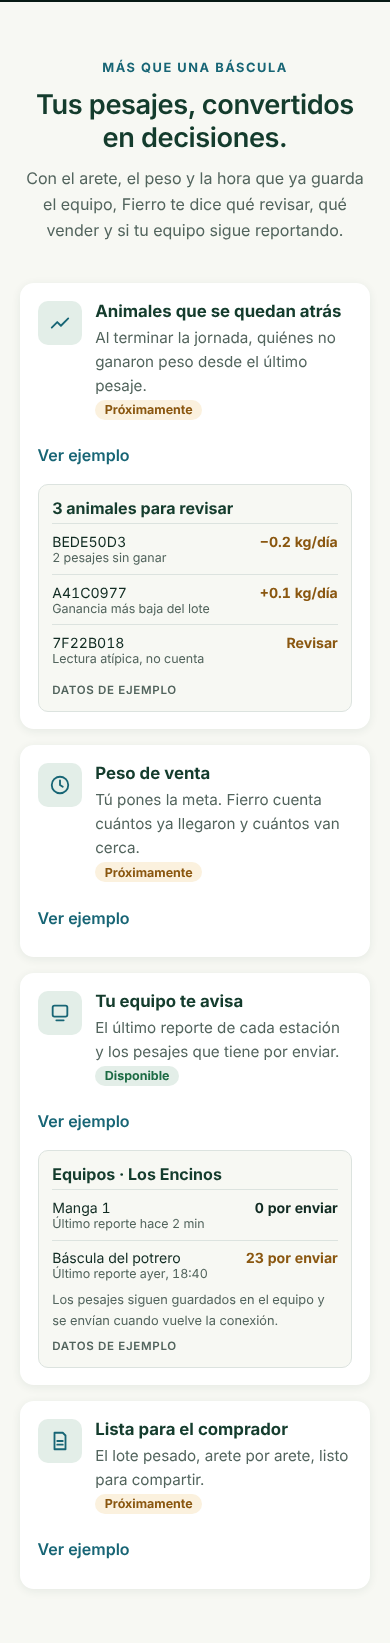
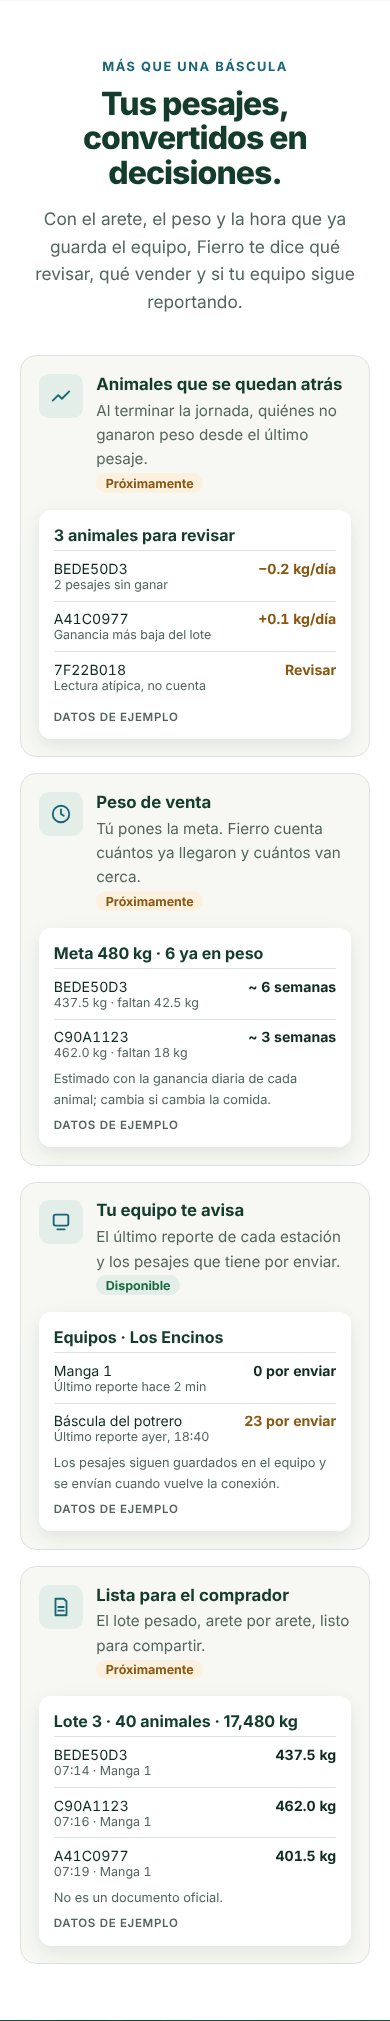
Home: Más que una báscula sube justo después de la portada
Es lo que vende, así que va primero: titular más grande, fondo blanco que la
separa de la portada y las vistas de ejemplo siempre abiertas. Se suma
"Lo que hace" a la navegación. Refs #94.

Claude-Session: https://claude.ai/code/session_014LwE5U7wxpnpvRr8vqi3yZ

Changed region(s): [[0.0923, 0.1862, 0.8923, 0.9623], [0.0923, 0.031, 0.9231, 0.1552]]

diff --git a/apps/web/src/mas-que-bascula.css b/apps/web/src/mas-que-bascula.css
@@ -2,7 +2,7 @@
    porque .secciones todavía trae el tema oscuro antiguo. */
 .home-publica .mas-que-bascula {
   padding: 88px max(24px, calc((100% - 1200px) / 2));
-  background: var(--home-marfil);
+  background: #fff;
   color: var(--home-texto);
   scroll-margin-top: 24px;
 }
@@ -22,7 +22,15 @@
   text-transform: uppercase;
 }
 
-.mqb-cabeza h2 { color: var(--home-bosque); }
+.home-publica .mqb-cabeza h2 {
+  margin-bottom: 0.9rem;
+  color: var(--home-bosque);
+  font-size: clamp(2rem, 4.2vw, 2.9rem);
+  font-weight: 800;
+  line-height: 1.08;
+  letter-spacing: -0.03em;
+}
+.home-publica .mqb-cabeza p:last-child { font-size: 1.08rem; }
 .mqb-cabeza p:last-child { color: var(--home-muted); }
 .home-publica .mas-que-bascula p { color: var(--home-muted); }
 
@@ -41,9 +49,9 @@
   grid-template-columns: 44px minmax(0, 1fr);
   gap: 0.85rem;
   padding: 1.1rem;
-  border-radius: 14px;
-  background: #fff;
-  box-shadow: 0 2px 10px rgba(20, 60, 45, 0.08);
+  border: 1px solid #dce3df;
+  border-radius: 16px;
+  background: var(--home-marfil);
 }
 
 .mqb-icono {
@@ -71,29 +79,14 @@
 
 .mqb-estado.mqb-disponible { background: #e3eee8; color: #1c6b44; }
 
-.mqb-idea > details { grid-column: 1 / -1; }
-
-.mqb-idea summary {
-  display: inline-flex;
-  align-items: center;
-  min-height: 44px;
-  color: var(--home-petroleo);
-  font-weight: 600;
-  cursor: pointer;
-}
-
-.mqb-idea summary:focus-visible {
-  outline: 2px solid var(--home-petroleo);
-  outline-offset: 2px;
-  border-radius: 4px;
-}
+.mqb-idea > .mqb-vista { grid-column: 1 / -1; }
 
 .mqb-vista {
-  margin: 0.4rem 0 0;
-  padding: 0.85rem;
-  border: 1px solid #dce3df;
-  border-radius: 10px;
-  background: var(--home-marfil);
+  margin: 0.2rem 0 0;
+  padding: 0.95rem;
+  border-radius: 12px;
+  background: #fff;
+  box-shadow: 0 6px 18px rgba(20, 60, 45, 0.1);
 }
 
 .mqb-vista-titulo { display: block; margin-bottom: 0.3rem; color: var(--home-bosque); }

diff --git a/apps/web/src/MasQueBascula.jsx b/apps/web/src/MasQueBascula.jsx
@@ -3,8 +3,9 @@ import "./mas-que-bascula.css";
 /**
  * Lo que sale de los pesajes además del registro (#93, #94). Cada idea dice su
  * estado real, con la misma regla que Fierro Vision: lo que aún no se
- * construye no se presenta como disponible. Las vistas son ejemplos fijos,
- * sin consultas a datos de ningún rancho.
+ * construye no se presenta como disponible. Las vistas van siempre abiertas
+ * porque son lo que vende; son ejemplos fijos, sin consultas a datos de
+ * ningún rancho.
  */
 const IDEAS = [
   {
@@ -109,10 +110,7 @@ export default function MasQueBascula() {
                 {idea.disponible ? "Disponible" : "Próximamente"}
               </span>
             </div>
-            <details>
-              <summary>Ver ejemplo</summary>
-              <Vista vista={idea.vista} />
-            </details>
+            <Vista vista={idea.vista} />
           </li>
         ))}
       </ul>

diff --git a/apps/web/src/Secciones.jsx b/apps/web/src/Secciones.jsx
@@ -89,6 +89,9 @@ export default function Secciones() {
 
   return (
     <div className="secciones" ref={raiz}>
+      {/* Justo después de la portada: es lo que vende (#94). */}
+      <MasQueBascula />
+
       <section
         className="bloque banda-oscura como-funciona"
         id="como-funciona"
@@ -122,7 +125,6 @@ export default function Secciones() {
 
       <Referencias />
       <VisionPremium />
-      <MasQueBascula />
       <PreguntasAcceso />
     </div>
   );

diff --git a/apps/web/src/Home.jsx b/apps/web/src/Home.jsx
@@ -17,6 +17,7 @@ export default function Home({ onEntrar }) {
           <span>Fierro</span>
         </a>
         <nav className="home-navegacion" aria-label="Navegación principal">
+          <a href="#mas-que-bascula">Lo que hace</a>
           <a href="#como-funciona">Cómo funciona</a>
           <a href="#beneficios">Beneficios</a>
           <a href="#por-que-pesar">Por qué pesar</a>

diff --git a/docs/frontend-home.md b/docs/frontend-home.md
@@ -73,19 +73,20 @@ y su vista ilustrativa; no implica modificar automáticamente la aplicación.
 Orden único de la página:
 
 1. Encabezado y portada.
-2. Cómo funciona: tres pasos.
-3. En el corral y desde tu celular.
-4. Cada animal tiene su historia.
-5. Por qué pesar seguido: datos con fuente y lecturas recomendadas
+2. Más que una báscula (`MasQueBascula.jsx`, #94), justo después de la portada
+   porque es lo que vende: cuatro ideas que salen de los pesajes, cada una con
+   su estado ("Disponible" o "Próximamente") y su vista de ejemplo abierta, con
+   datos fijos. Épica #93. El aparte en la manga (#97) no entra hasta probar
+   su hardware.
+3. Cómo funciona: tres pasos.
+4. En el corral y desde tu celular.
+5. Cada animal tiene su historia.
+6. Por qué pesar seguido: datos con fuente y lecturas recomendadas
    (`Referencias.jsx`), plegadas en "Ver las fuentes". Cada fuente se verificó
    contra su página original; no se agregan citas de memoria.
-6. Fierro Vision, marcado como en desarrollo (`VisionPremium.jsx`).
-6b. Más que una báscula (`MasQueBascula.jsx`, #94): cuatro ideas que salen de
-   los pesajes, cada una con su estado ("Disponible" o "Próximamente") y una
-   vista de ejemplo plegable con datos fijos. Épica #93. El aparte en la manga
-   (#97) no entra hasta probar su hardware.
-7. Preguntas frecuentes, incluida la privacidad del equipo.
-8. Lista de espera con la línea de inicio de sesión, y pie de página.
+7. Fierro Vision, marcado como en desarrollo (`VisionPremium.jsx`).
+8. Preguntas frecuentes, incluida la privacidad del equipo.
+9. Lista de espera con la línea de inicio de sesión, y pie de página.
 
 Cambios de 2026-10-25, aprobados en el [diseño del home](https://claude.ai/artifact/LS3Vcw3zrJK2aaxNZJMCP6):
 la portada lleva primero a la lista de espera (#88), la página se acorta sin
